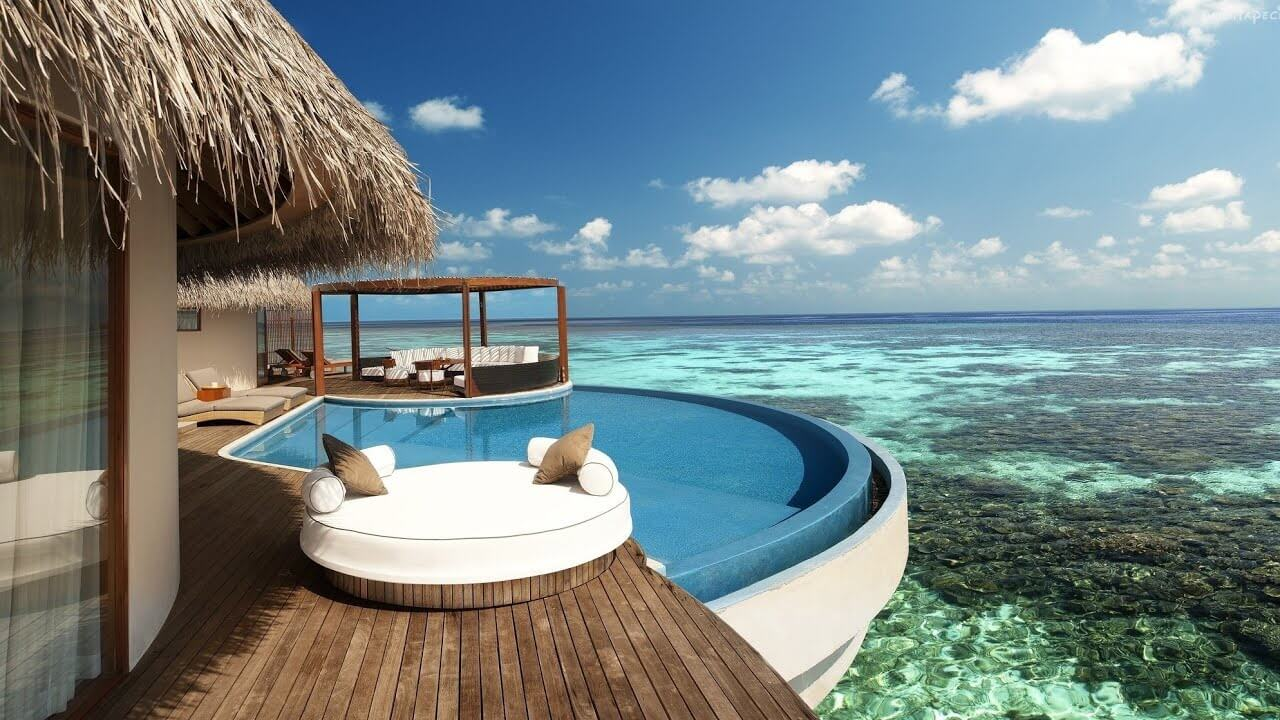
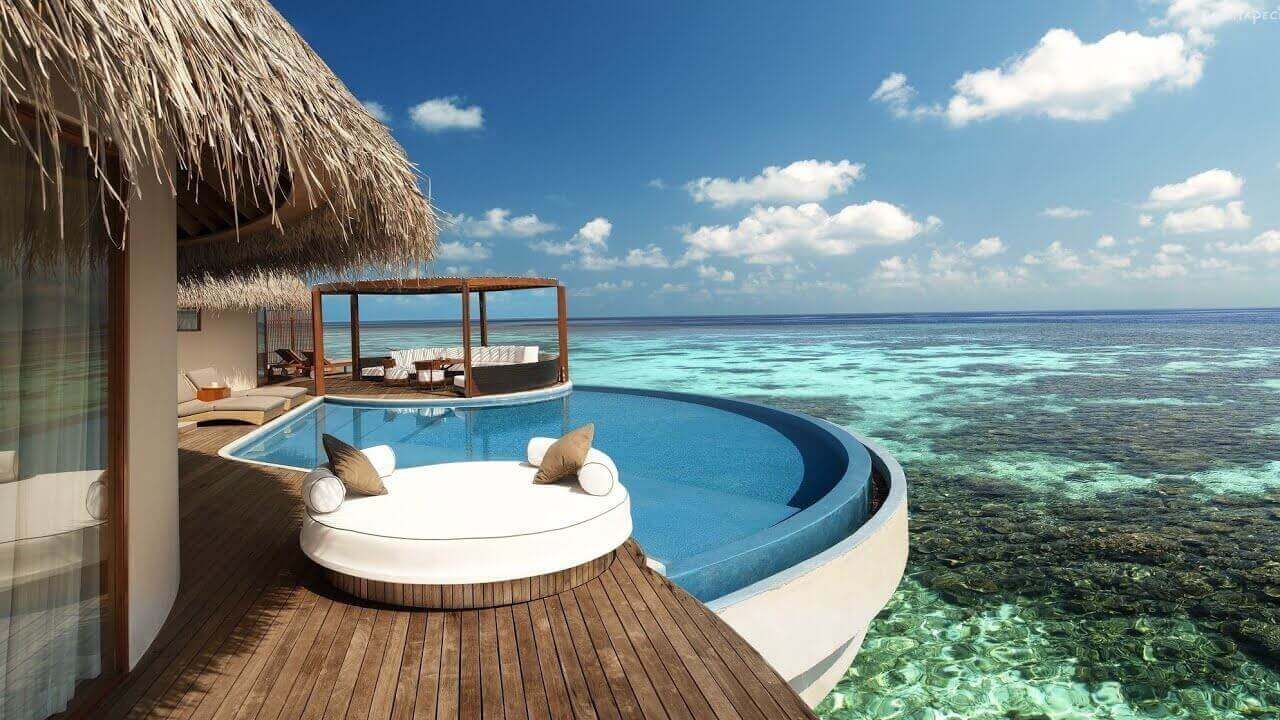
fix: optimization

Changed region(s): [[0.1875, 0.0917, 0.2812, 0.1833], [0.125, 0.0306, 0.1875, 0.0611], [0.2812, 0.2139, 0.3125, 0.2444]]

diff --git a/js/main.js b/js/main.js
@@ -1,30 +1,1 @@
 $(document).ready(function(){new Swiper(".hotel-slider",{loop:!0,navigation:{nextEl:".hotel-slider__button--next",prevEl:".hotel-slider__button--prev"},speed:600,keyboard:{enabled:!0}});$(document).keydown(function(e){27===e.keyCode&&a()});new Swiper(".reviews-slider",{loop:!0,navigation:{nextEl:".reviews-slider__button--next",prevEl:".reviews-slider__button--prev"},speed:600,keyboard:{enabled:!0}});$(".newsletter").parallax({imageSrc:"./img/newsletter-bg.jpg"}),$(".menu-button").on("click",function(){$(".navbar-button").toggleClass("navbar-button--visible")});var e=$("[data-toggle=modal]"),o=$(".modal__close");function a(e){e&&e.preventDefault();var o=$(".modal__overlay"),e=$(".modal__dialog");o.removeClass("modal__overlay--visible"),e.removeClass("modal__dialog--visible")}e.on("click",function(){var e=$(".modal__overlay"),o=$(".modal__dialog");e.addClass("modal__overlay--visible"),o.addClass("modal__dialog--visible")}),o.on("click",a),$(".form").each(function(){$(this).validate({errorClass:"invalid",messages:{name:{required:"Please specify your name",minlength:"The name must be at least 2 letters"},email:{required:"We need your email address to contact you",email:"Your email address format of name@domain.com"},phone:{required:"Please enter your phone number",minlength:"Your phone number must be 11 digits long"}}})}),$(document).ready(function(){$(".phone").mask("+7 (999) 999-99-99")}),AOS.init()});
-// function modalClose ( e ) {
-//   if ( !e.keyCode |s| e.keyCode === 27 ) {
-//     closeModal();
-//   }
-// }
-// ymaps.ready(init);
-
-// function init() {
-//     var map = new ymaps.Map("map", {
-//             center: [7.890689916012718,98.29477115090043],
-//             zoom: 16,
-//             controls: ['zoomControl'],
-//             behaviors: ['drag']
-//     });
-
-//     var Placemark = new ymaps.Placemark([7.890689916012718,98.29477115090043], {
-
-//     },
-//     {
-//       iconLayout: 'default#image',
-//       iconImageHref: 'img/icon-hotel.png',
-//       iconImageSize: [40, 40]
-//     });
-
-//     map.geoObjects.add(Placemark);
-//   }
-// $(document).ready(function(){
-// 		$('.parallax-window').parallax({imageSrc: '../img/newsletter-bg.jpg'});
-// });

diff --git a/sass/blocks/_header.sass b/sass/blocks/_header.sass
@@ -33,37 +33,6 @@
       &--mobile
         &--visible
           display: none
-
-      // display: inline-block
-      // overflow: hidden
-      // padding: 10px 0
-
-      // &::before, &::after
-      //   content: ''
-      //   position: absolute
-      //   top: calc(100% - 4px)
-      //   width: 50%
-      //   height: 4px
-      //   opacity: .8
-      //   transition: .5s
-
-      // &::before
-      //   left: -50%
-      //   background: $primary
-
-      // &::after
-      //   left: 100%
-      //   background: $light
-
-      // &:hover
-      //   color: $primary
-      //   &::before
-      //     left: 50%
-
-      //   &::after
-      //     left: 0
-
-  //////////////////////////////////////////////////
 .logo
   width: 177px
 .search
@@ -92,13 +61,6 @@
     background-color: $primary
     cursor: pointer
     outline: none
-    // background-image: linear-gradient(to left, transparent, transparent 50%, #6253e1 50%, #852D91, #F24645)
-    // background-position: 100% 0
-    // background-size: 200% 100%
-    // transition: all .25s ease-in
-    // &:hover
-    //   background-position: 0 0
-    //   box-shadow: 0 4px 15px 0 rgba(126, 52, 161, 0.75)
 .user
   display: flex
   align-items: center
@@ -113,9 +75,6 @@
     font-size: 14px
     line-height: 18px
     color: $text-color
-    // &:hover
-    //   color: $primary
-    //   opacity: 0.6
 .navbar
   &__user, &__search
     &--mobile

diff --git a/sass/blocks/_hotel.sass b/sass/blocks/_hotel.sass
@@ -63,10 +63,6 @@
       background-position: center
       background-size: 10px
       background-color: transparent
-      // &:hover
-      //   border: 1px solid #fdfbf8
-      //   border-radius: 4px
-      //   opacity: 0.7
       &--next
         right: 18px
         background-image: url(../img/arrow-next.svg)
@@ -169,8 +165,6 @@
     font-weight: 600
     font-size: 18px
     line-height: 25px
-    // &:hover
-    //   opacity: 0.5
   &__num
     margin-left: 8px
   &__button
@@ -185,13 +179,6 @@
     color: $light
     cursor: pointer
     outline: none
-    // background-image: linear-gradient(to left, transparent, transparent 50%, #6253e1 50%, #852D91, #F24645)
-    // background-position: 100% 0
-    // background-size: 200% 100%
-    // transition: all .25s ease-in
-    // &:hover
-    //   background-position: 0 0
-    //   box-shadow: 0 4px 15px 0 rgba(126, 52, 161, 0.75)
 .map
   width: 347px
   height: 213px

diff --git a/sass/blocks/_newsletter.sass b/sass/blocks/_newsletter.sass
@@ -2,8 +2,6 @@
   position: relative
   padding: 80px 0 66px 0
   min-height: 260px
-  // background-image: url(../img/newsletter-bg.jpg)
-  // background-position: center
   background-repeat: no-repeat
   background-size: cover
   &:before
@@ -40,11 +38,8 @@
   width: 350px
   height: 50px
   border-radius: 4px
-  // overflow: hidden
   &__input
-    // position: absolute
     width: 100%
-    // height: 100%
     border: none
     padding-left: 33px
     padding-right: 75px
@@ -65,9 +60,3 @@
     line-height: 15px
     border-top-right-radius: 4px
     border-bottom-right-radius: 4px
-    // background-image: linear-gradient(to left, transparent, transparent 50%, #6253e1 50%, #852D91, #F24645)
-    // background-position: 100% 0
-    // background-size: 200% 100%
-    // transition: all .25s ease-in
-    // &:hover
-    //   background-position: 0 0

diff --git a/sass/blocks/_activities.sass b/sass/blocks/_activities.sass
@@ -58,10 +58,3 @@
     background-color: $primary
     border-radius: 4px
     outline: none
-    // background-image: linear-gradient(to left, transparent, transparent 50%, #6253e1 50%, #852D91, #F24645)
-    // background-position: 100% 0
-    // background-size: 200% 100%
-    // transition: all .25s ease-in
-    // &:hover
-    //   background-position: 0 0
-    //   box-shadow: 0 4px 15px 0 rgba(126, 52, 161, 0.75)

diff --git a/sass/blocks/_packages.sass b/sass/blocks/_packages.sass
@@ -44,7 +44,6 @@
     &--first
       width: 50%
       flex-shrink: 0
-      // max-height: 500px
   &__image
     width: 100%
     height: 250px
@@ -87,8 +86,6 @@
   &__price
     display: flex
     flex-direction: column
-    // margin-top: 24px
-    // margin-bottom: 35px
     &-old
       font-weight: 400
       font-size: 14px

diff --git a/sass/blocks/_reviews.sass b/sass/blocks/_reviews.sass
@@ -51,9 +51,6 @@
       background-color: transparent
       cursor: pointer
       z-index: 99
-      // &:hover
-      //   border: 1px solid #bdbdbd
-      //   border-radius: 4px
       &--prev
         background-image: url(../img/arrow-prev-secondary.svg)
         left: 18px

diff --git a/sass/blocks/_breadcrumb.sass b/sass/blocks/_breadcrumb.sass
@@ -16,6 +16,3 @@
     &__link
       text-decoration: none
       color: inherit
-      // &:hover
-      //   color: #bdbdbd
-      //   opacity: 0.8
